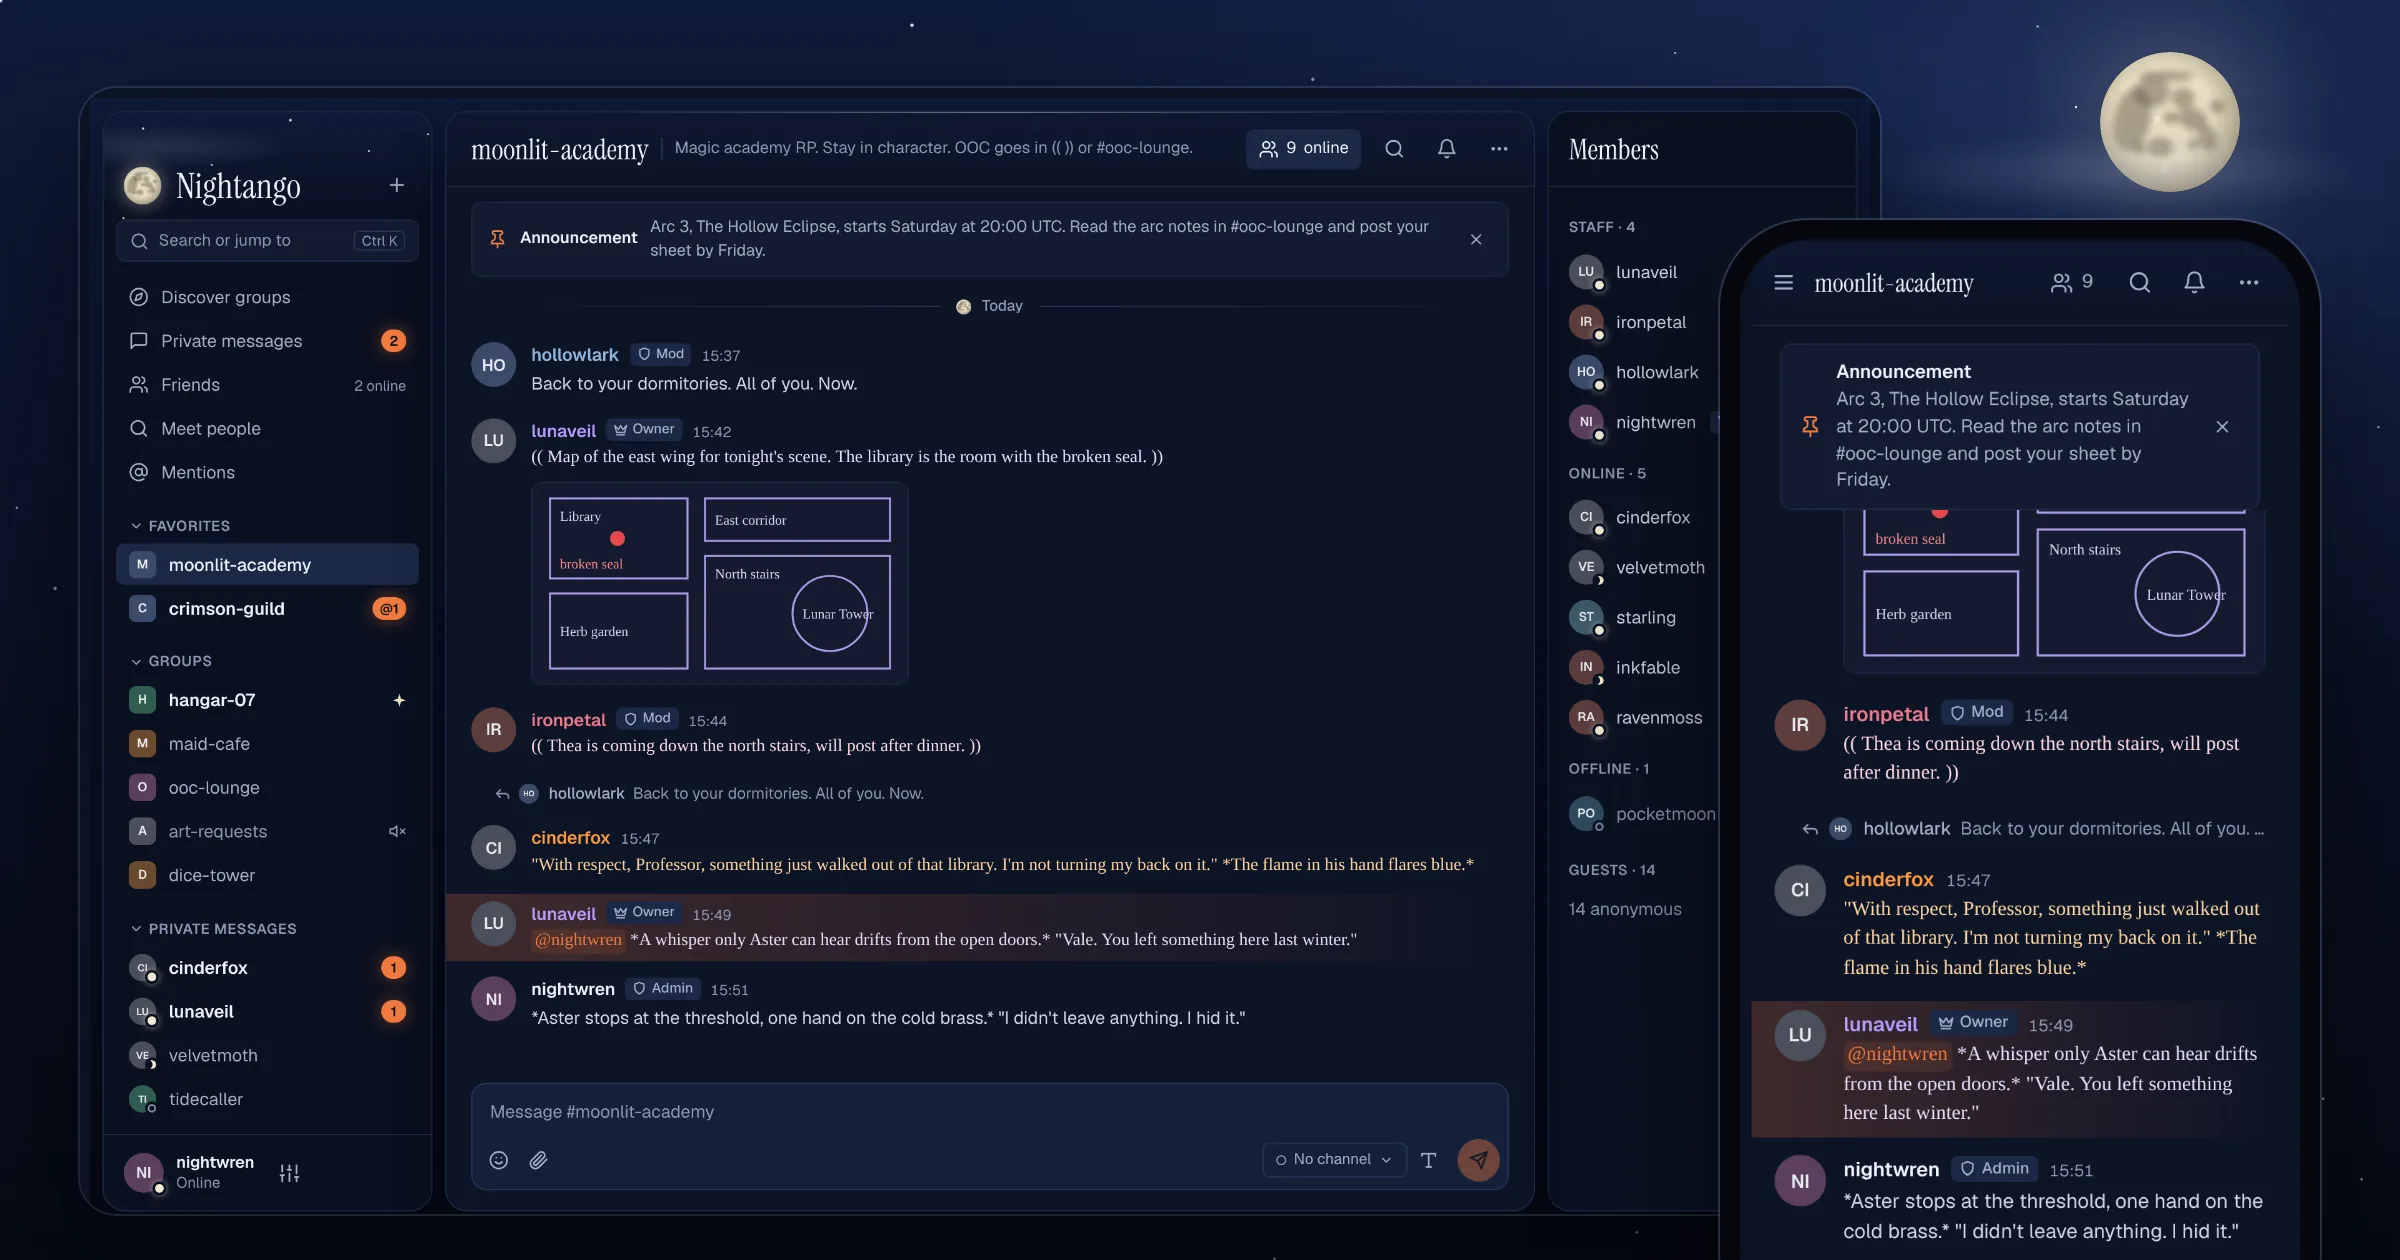
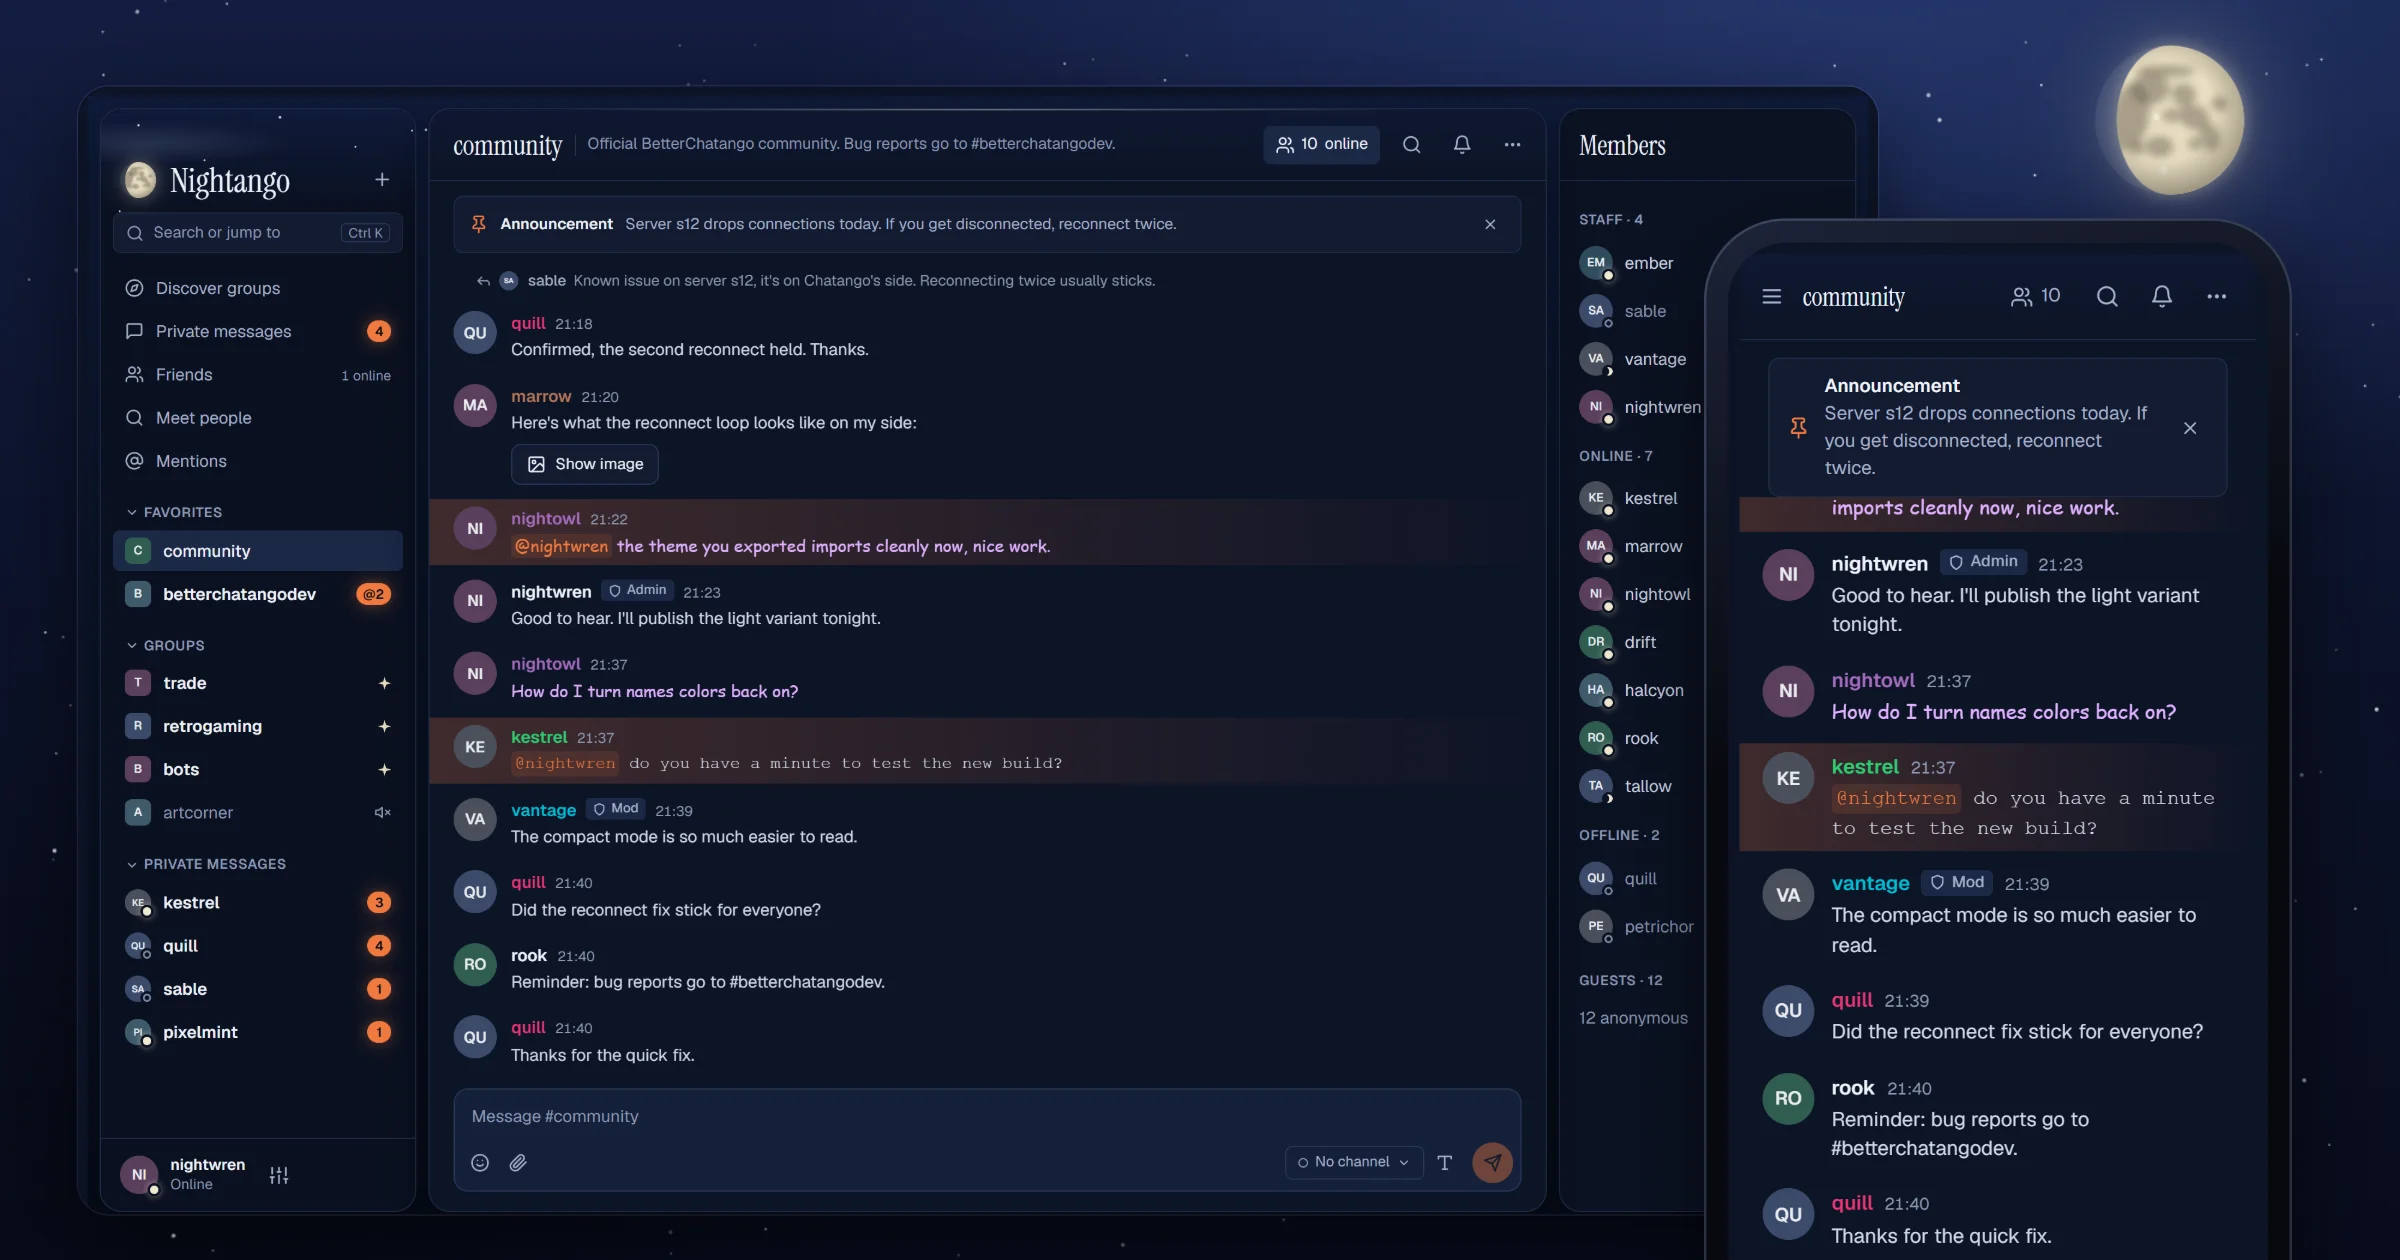
docs: rewrite the README for the public release
Make the README short and factual: install and update steps first,
then the features, privacy rules, development commands and licences.

Add two notices at the top: Nightango is not affiliated with
BetterChatango or Chatango, and nearly all of its code was written by
an AI coding agent, with no warranty.

Retake the five screenshots from the prototype's sample data, without
the features removed in this release.

diff --git a/README.md b/README.md
@@ -2,84 +2,69 @@
 
 ![A Nightango group chat on desktop and on a phone](docs/readme/hero.webp)
 
-Nightango is a skin for [BetterChatango](https://vissle.me), a third-party web client for Chatango. It is a Tampermonkey userscript for [st.chatango.com](https://st.chatango.com/): it starts BetterChatango, then draws a redesigned interface on top of it: group chats, private messages, profiles, moderation and Meet people, on desktop and on phones.
+Nightango is a Tampermonkey userscript for [st.chatango.com](https://st.chatango.com/). It starts [BetterChatango](https://vissle.me), a third-party Chatango client, and replaces its interface with another one: group chats, private messages, profiles, moderation and Meet people, on desktop and on phones.
 
-You sign in on BetterChatango's own screen. Nightango never reads your password and only sends Chatango frames that BetterChatango or a reference library already uses.
+> [!IMPORTANT]
+> Nightango is an independent project. It is not affiliated with, endorsed by or sponsored by BetterChatango or Chatango.
 
-## A night sky
+> [!WARNING]
+> Nearly all of Nightango's code was written by an AI coding agent. It runs with your Chatango session and sends what you do in it to Chatango, like any client. It comes with no warranty: use it at your own risk.
 
-Nightango is themed after a full-moon night with scattered clouds, and a torch under it.
+## Install
 
-- **The real moon.** The moon in the corner is tonight's moon, at its real phase, computed on your device. Every day divider in a conversation shows the moon of that night.
-- **Two lights.** Cool moonlight frames the interface. Warm ember, the torch, marks only what asks for you: unread counts, mentions, the send button.
-- **Presence by moon phase.** Online is a full moon, idle a crescent, offline a new moon. The shape tells the status, so it reads without relying on color.
-- **Night and dawn.** The dark theme is the night sky. The light theme is the same sky at first light.
-- Conversations always sit on solid panels. The sky stays around them.
+1. Install [Tampermonkey](https://www.tampermonkey.net/) in your browser.
+2. Download `nightango.min.user.js` from the [latest release](https://github.com/marjoriedotdev/nightango/releases/latest).
+3. In Tampermonkey, create a new script and replace its content with the file. Save.
+4. Open https://st.chatango.com/ and sign in on the BetterChatango screen. Nightango appears once the session is open.
+
+To update, paste the new release over the same script. Settings > What's new lists the changes of each version.
 
 ## Features
 
 **Group chats**
-- Replies, mentions and unread markers, with a "New messages" jump.
-- A Mentions page lists recent messages that mention you across your groups, and jumps to each one.
-- Red, blue and staff channels, with a color bar on every channel message.
-- Older messages load as you scroll up.
-- Errors and warnings show as short notices instead of filling the thread.
-- Your BetterChatango media library: star an image to save it, insert it from the Media tab or by typing `:name` then Tab, and import or export it in BetterChatango's format.
+- Replies, mentions, unread markers and a "New messages" jump.
+- A Mentions page with recent messages that mention you, across groups.
+- Red, blue and staff channels.
+- Older messages load on scroll.
+- The BetterChatango media library: star an image to save it, insert it from the Media tab or with `:name` then Tab, import and export it.
 
 **Private messages and friends**
-- Images and videos show as soon as you send them.
-- Swipe a friend to remove them or get notified when they come online.
+- Search in all saved conversations.
+- Friend list with presence, swipe actions on phones.
 
 **Profiles**
-- Premium members' colors and background image cover the whole profile card.
-- Tap a profile picture to see it in full.
-- Full profiles open in an isolated frame that can't run scripts.
+- Mini profiles with the member's Premium colors and background.
+- Full profiles in a sandboxed frame that can't run scripts.
+- Edit your bio and full profile, upload and crop your picture, set your Premium background.
 
 **Moderation**
-- Bans and unbans, the moderation log, moderator roles, announcements, banned words and slow mode.
+- Bans and unbans, moderation log, moderator roles, announcements, banned words, slow mode.
 
-**Mobile**
-- Group info and member list in a full-screen sheet, channel picker next to the message box, pull to refresh in Meet people.
+**Appearance** (Settings > Appearance, saved in the browser)
+- Dark and light themes, or the system theme.
+- A night sky with the moon at its current phase, computed on the device. Presence is shown as moon phases: full for online, crescent for idle, new for offline.
+- Accent color, density, text size, and switches for members' Chatango styles.
+- Your own message style, kept in the browser.
 
-![Group chat in the night and dawn themes](docs/readme/themes.webp)
+![Group chat in the dark and light themes](docs/readme/themes.webp)
 
 ![Group chat, group info and friends list on a phone](docs/readme/mobile.webp)
 
 ![A Premium member's profile card](docs/readme/profile.webp)
 
-## Customisation
+![The navigation in the six accent colors](docs/readme/customisation.webp)
 
-![The navigation in the six accent colors: Ember, Blue, Green, Violet, Pink and Slate](docs/readme/customisation.webp)
+## Privacy
 
-Everything lives in Settings > Appearance and is saved on your device.
+- Nightango never reads, stores, logs or sends your password. Sign-in happens on BetterChatango's screen.
+- Every HTTP call Nightango makes is listed in [docs/betterchatango-protocol.md](docs/betterchatango-protocol.md#allowed-http-calls). Nothing outside that list is called.
+- Every Chatango frame it sends comes from BetterChatango's code or a reference library.
+- Member HTML is rebuilt from an allow list, never injected.
+- Profile and message backgrounds and full-size profile pictures load without a referrer.
+- Fonts ship inside the userscript.
+- The diagnostic journal (Settings > Diagnostics) stays in the browser and never records frame contents or what you send.
 
-- **Theme**: night (dark), dawn (light), or follow the system.
-- **Sky**: keep the moon of tonight or pick a fixed phase. Calm sky stops the drifting clouds. Southern hemisphere draws the moon as it looks south of the equator.
-- **Accent color**: Ember, Blue, Green, Violet, Pink, Slate, or any color you pick. Text on the accent is adjusted so it stays readable.
-- **Density**: comfortable, or compact with no avatars and the time before the name.
-- **Text size** for message text.
-- **Chatango styles**: turn members' name colors, fonts and text colors, message backgrounds and profile backgrounds on or off. Hard-to-read colors are corrected. To hide the style of one member only, use Hide style in their message menu or profile.
-- **Imported themes**: load a theme file (.json) from the old BetterChatango theme editor and use its accent color.
-- **Message style**: pick the font, size and colors of your own messages. It applies to what you send from Nightango in this browser and does not change your Chatango account style.
-
-## Privacy and security
-
-- Your password stays with BetterChatango. Nightango never reads, stores, logs or sends it.
-- Every HTTP call Nightango makes is listed in [docs/betterchatango-protocol.md](docs/betterchatango-protocol.md#allowed-http-calls), and nothing outside that list is called.
-- Member HTML is rebuilt from an allow list, never injected. Full profiles render in a sandboxed frame without scripts.
-- Profile backgrounds, message backgrounds and full-size profile pictures load without sending a referrer.
-- Trusted sites, listed in Settings > Safety and shared with BetterChatango, open without a link warning and load their images, videos and audio without a click. Other sites follow your media settings.
-- Fonts ship inside the userscript: no request to Google Fonts.
-- Activity on your own profile is the only visitor data Nightango reads.
-
-## Install
-
-1. Install [Tampermonkey](https://www.tampermonkey.net/) in your browser.
-2. Download `nightango.min.user.js` from the [latest release](https://github.com/marjoriedotdev/nightango/releases/latest), or build it yourself (see below).
-3. In Tampermonkey, create a new script, or open your existing Nightango script (named Torch Skin before 0.18.0), and replace all of its content with the file. Save.
-4. Open https://st.chatango.com/ and sign in on the BetterChatango screen. Nightango appears once your session is open.
-
-## Build and test
+## Development
 
 Requires Node.js and pnpm.
 
@@ -92,28 +77,23 @@ pnpm test live_ui     # build, then one suite
 
 `pnpm build` writes:
 - `dist/nightango.min.user.js`: the userscript to install.
-- `dist/nightango.user.js`: the same script, readable, for review.
+- `dist/nightango.user.js`: the same script, readable.
 - `dist/nightango.html` and `dist/app.js`: a prototype with simulated data.
 
-## Fonts
-
-Geist, Geist Mono and Instrument Serif are embedded in the userscript and the prototype. They are released under the SIL Open Font License 1.1: copyright notice and license in [torchds/project/fonts/OFL.txt](torchds/project/fonts/OFL.txt), copied by the build under the userscript header.
-
-## Credits
-
-Nightango runs on top of [BetterChatango](https://github.com/Vissle-Drissle/Torch-Client) by Vissle, released under the MIT license.
-
-## Disclaimer
-
-Nightango is an independent project. It is not affiliated with, endorsed by or sponsored by BetterChatango or Chatango.
-
-## Documentation
-
-The project docs are written in French.
-
-- [AGENTS.md](AGENTS.md): project rules, commands, releasing a version
+Docs:
+- [AGENTS.md](AGENTS.md): project rules, commands, releases
 - [GLOSSARY.md](GLOSSARY.md): domain vocabulary
 - [docs/architecture.md](docs/architecture.md): code and build layout
-- [docs/betterchatango-protocol.md](docs/betterchatango-protocol.md): how BetterChatango and the Chatango protocol work
+- [docs/betterchatango-protocol.md](docs/betterchatango-protocol.md): BetterChatango and the Chatango protocol
 - [docs/coding-conventions.md](docs/coding-conventions.md): code and test conventions
 - [docs/adr/](docs/adr/): architecture decisions
+
+Bug reports go to the [issue tracker](https://github.com/marjoriedotdev/nightango/issues).
+
+## License
+
+Nightango is released under the [MIT License](LICENSE).
+
+BetterChatango is by Vissle, under the [MIT License](https://github.com/Vissle-Drissle/Torch-Client). A read-only copy of its code sits in [reference/torch/](reference/torch/) to check its behaviour.
+
+Geist, Geist Mono and Instrument Serif are embedded under the SIL Open Font License 1.1 ([torchds/project/fonts/OFL.txt](torchds/project/fonts/OFL.txt)).
